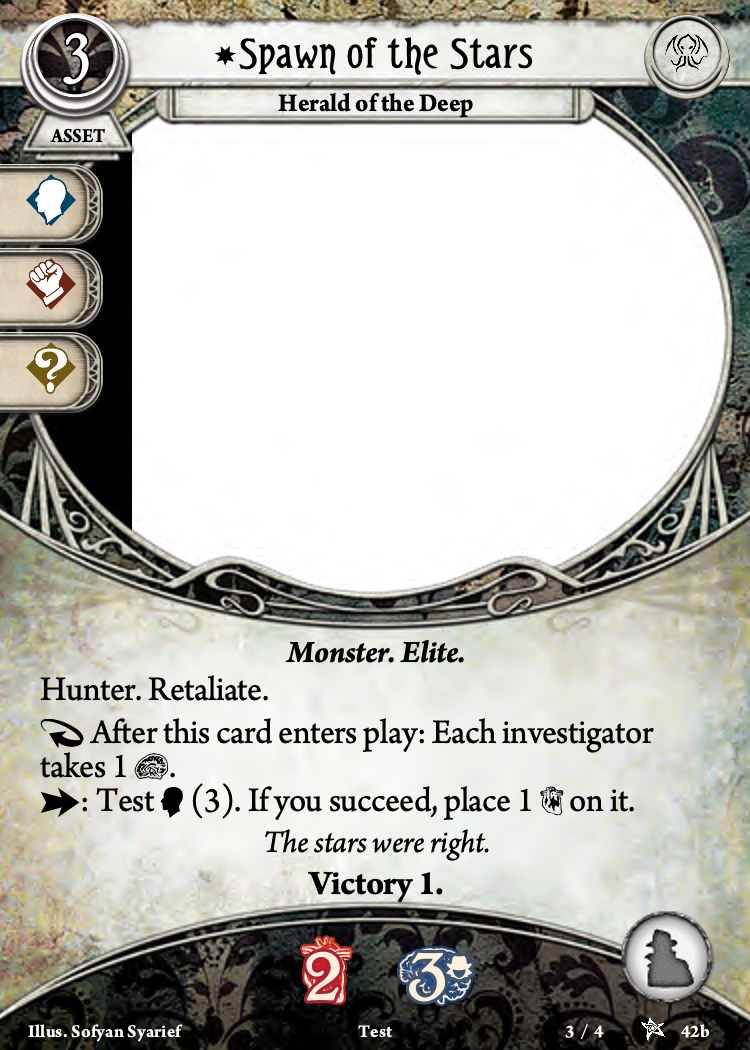
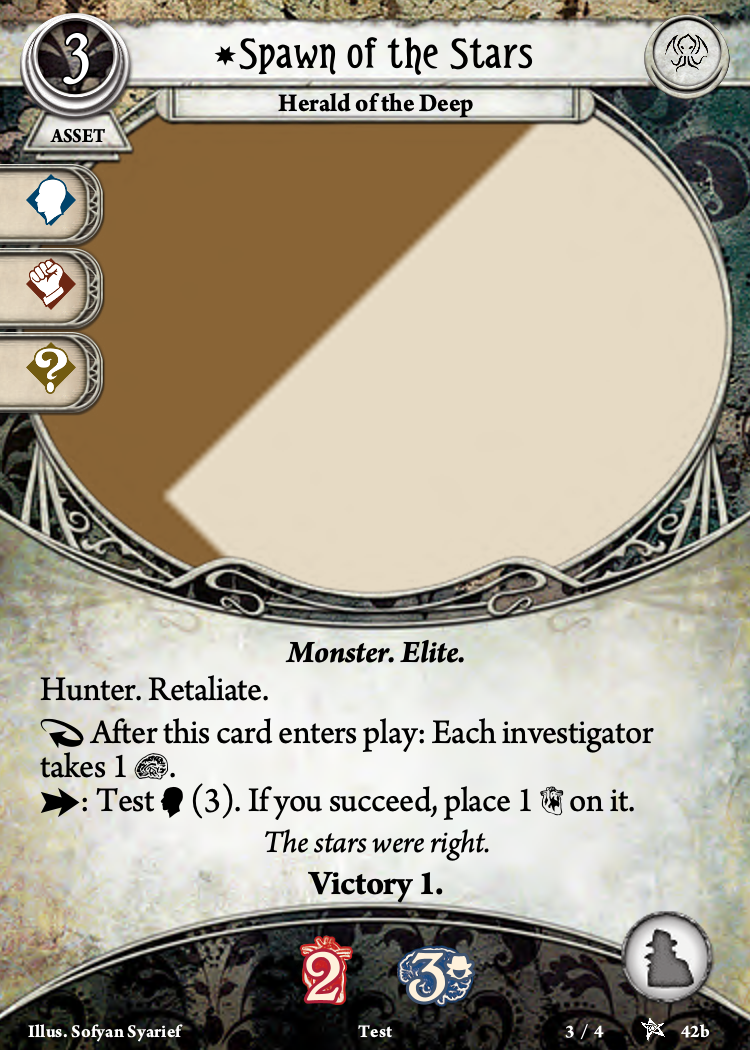
fix: restore portrait pan after high-res recovery

diff --git a/ArkhamHorrorLCG/ArkhamHorrorLCG/resources/ArkhamHorrorLCG/diy/AHLCG-utilLibrary.js b/ArkhamHorrorLCG/ArkhamHorrorLCG/resources/ArkhamHorrorLCG/diy/AHLCG-utilLibrary.js
@@ -180,7 +180,7 @@ const HighResCards = {
 	EnemyLocation: {from: 18, v: {'19': {p: {'BackPortrait': 4, 'Portrait': 4}}, '20': {p: {'BackPortrait': 4, 'Portrait': 4}, t: 4, f: ['Flavor', 'FlavorBack', 'Keywords', 'KeywordsBack', 'Rules', 'RulesBack', 'Traits', 'TraitsBack', 'Victory', 'VictoryBack']}}},
 	EnemyPortrait: {from: 16, v: {'17': {p: {'BackPortrait': 4, 'Portrait': 4}}, '18': {p: {'BackPortrait': 4, 'Portrait': 4}, t: 4, f: ['Flavor', 'Keywords', 'Rules', 'Traits', 'Victory']}}},
 	Event: {from: 19, v: {'20': {p: {'Portrait': 4}}, '21': {p: {'Portrait': 4}, t: 4, f: ['Flavor', 'Keywords', 'Rules', 'Traits', 'Victory']}}},
-	Investigator: {from: 15, v: {'16': {p: {'Portrait': 4}, n: 'TransparentPortrait left as is, but may have been enlarged 4x'}, '17': {p: {'Portrait': 4, 'TransparentPortrait': 4}, t: 4, f: ['Flavor', 'InvStoryBack', 'Keywords', 'Rules', 'Text1Back', 'Text2Back', 'Text3Back', 'Text4Back', 'Text5Back', 'Text6Back', 'Text7Back', 'Text8Back', 'Traits'], n: 'TransparentPortrait reduced 4x, but may not have been enlarged'}, '18': {p: {'Portrait': 4, 'TransparentPortrait': 4}, t: 4, f: ['Flavor', 'InvStoryBack', 'Keywords', 'Rules', 'Text1Back', 'Text2Back', 'Text3Back', 'Text4Back', 'Text5Back', 'Text6Back', 'Text7Back', 'Text8Back', 'Traits'], n: 'TransparentPortrait reduced 4x, but may not have been enlarged; text sizes reduced 4x, but may have been enlarged 16x or 64x or 256x; 9.95 reset KeywordsSpacing, RulesSpacing, TraitsSpacing'}}},
+	Investigator: {from: 15, v: {'16': {p: {'Portrait': 4}, n: 'TransparentPortrait left as is, but may have been enlarged 4x'}, '17': {p: {'Portrait': 4, 'TransparentPortrait': 4}, pan: {'TransparentPortrait': 1}, t: 4, f: ['Flavor', 'InvStoryBack', 'Keywords', 'Rules', 'Text1Back', 'Text2Back', 'Text3Back', 'Text4Back', 'Text5Back', 'Text6Back', 'Text7Back', 'Text8Back', 'Traits'], n: 'TransparentPortrait reduced 4x, but may not have been enlarged'}, '18': {p: {'Portrait': 4, 'TransparentPortrait': 4}, pan: {'TransparentPortrait': 1}, t: 4, f: ['Flavor', 'InvStoryBack', 'Keywords', 'Rules', 'Text1Back', 'Text2Back', 'Text3Back', 'Text4Back', 'Text5Back', 'Text6Back', 'Text7Back', 'Text8Back', 'Traits'], n: 'TransparentPortrait reduced 4x, but may not have been enlarged; text sizes reduced 4x, but may have been enlarged 16x or 64x or 256x; 9.95 reset KeywordsSpacing, RulesSpacing, TraitsSpacing'}}},
 	InvestigatorStory: {from: 16, v: {'17': {p: {'Portrait': 4}}, '18': {p: {'Portrait': 4}, t: 4, f: ['Flavor', 'InvStoryBack', 'Keywords', 'Rules', 'Text1Back', 'Text2Back', 'Text3Back', 'Text4Back', 'Text5Back', 'Text6Back', 'Text7Back', 'Text8Back', 'Traits']}}},
 	Key: {from: 2, v: {'3': {p: {'BackPortrait': 4, 'Portrait': 4}}, '4': {p: {'BackPortrait': 4, 'Portrait': 4}, t: 4, f: ['Flavor', 'FlavorBack', 'Keywords', 'KeywordsBack', 'Rules', 'RulesBack', 'Traits', 'TraitsBack', 'Victory', 'VictoryBack']}}},
 	Location: {from: 18, v: {'19': {p: {'BackPortrait': 4, 'Portrait': 4}}, '20': {p: {'BackPortrait': 4, 'Encounter': 4, 'Portrait': 4}, t: 4, f: ['Flavor', 'FlavorBack', 'Keywords', 'KeywordsBack', 'Rules', 'RulesBack', 'Traits', 'TraitsBack', 'Victory'], n: 'Encounter reduced 4x, but may not have been enlarged'}, '21': {p: {'BackPortrait': 4, 'Encounter': 4, 'Portrait': 4}, t: 4, f: ['Flavor', 'FlavorBack', 'Keywords', 'KeywordsBack', 'Rules', 'RulesBack', 'Traits', 'TraitsBack', 'Victory'], n: 'Encounter reduced 4x, but may not have been enlarged'}}},
@@ -216,7 +216,12 @@ function recoverHighResCard( diy ) {
 	for ( let name in change.p ) {
 		let index = getPortraitIndex( name );
 		if ( index != null && PortraitList[index] != null ) {
-			PortraitList[index].setScale( PortraitList[index].getScale() / change.p[name] );
+			let factor = change.p[name];
+			PortraitList[index].setScale( PortraitList[index].getScale() / factor );
+			// Pan offsets use sheet pixels too, so undo the same high-res factor.
+			let panFactor = change.pan != null && change.pan[name] != null ? change.pan[name] : factor;
+			PortraitList[index].setPanX( PortraitList[index].getPanX() / panFactor );
+			PortraitList[index].setPanY( PortraitList[index].getPanY() / panFactor );
 		}
 	}
 	if ( change.t != null ) {

diff --git a/scripts/undo-high-res-scaling.js b/scripts/undo-high-res-scaling.js
@@ -116,6 +116,8 @@ function reduce(gc, handler, factor) {
             var named = portrait(gc, name);
             if (named == null) throw new Error('no ' + name + ' portrait');
             named.setScale(named.getScale() / factor[name]);
+            named.setPanX(named.getPanX() / factor[name]);
+            named.setPanY(named.getPanY() / factor[name]);
         }
         return;
     }
@@ -124,6 +126,8 @@ function reduce(gc, handler, factor) {
     if (s.portrait) {
         var p = portrait(gc, s.portrait);
         p.setScale(p.getScale() / factor);
+        p.setPanX(p.getPanX() / factor);
+        p.setPanY(p.getPanY() / factor);
         return;
     }
     var settings = gc.getSettings();
